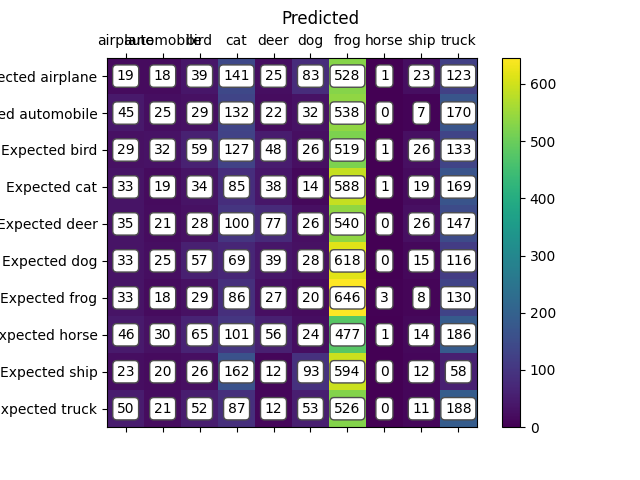
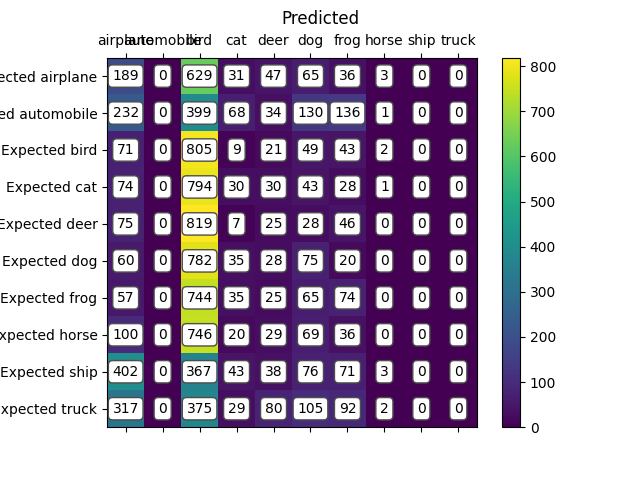
Use large windows for haar features

diff --git a/Assignment 4/Code/AdaBoost.py b/Assignment 4/Code/AdaBoost.py
@@ -18,6 +18,9 @@ def get_haar_indices(width, height) -> (np.ndarray, np.ndarray, np.ndarray):
     two_piece = []
     three_piece = []
     four_piece = []
+    two_piece_large_window = []
+    three_piece_large_window = []
+    four_piece_large_window = []
     if os.path.isfile(f"{CACHE_DIR}/haar_indices.npy"):
         with open(f"{CACHE_DIR}/haar_indices.npy", 'rb') as f:
             two_piece = np.load(f)
@@ -33,26 +36,52 @@ def get_haar_indices(width, height) -> (np.ndarray, np.ndarray, np.ndarray):
                             # Horizontal-2
                             two_piece.append(
                                 (y, x, y + h - 1, x + w - 1, y, x + w, y + h - 1, x + 2 * w - 1))
+
+                            if w > 8 and h > 8:
+                                two_piece_large_window.append(
+                                    (y, x, y + h - 1, x + w - 1, y, x + w, y + h - 1,
+                                     x + 2 * w - 1))
                         if y + h - 1 < height and x + 3 * w - 1 < width:
                             # Horizontal-3
                             three_piece.append(
                                 (y, x, y + h - 1, x + w - 1, y, x + w, y + h - 1, x + 2 * w - 1,
                                  y, x + 2 * w, y + h - 1, x + 3 * w - 1))
+
+                            if w > 6 and h > 6:
+                                three_piece_large_window.append(
+                                    (y, x, y + h - 1, x + w - 1, y, x + w, y + h - 1, x + 2 * w - 1,
+                                     y, x + 2 * w, y + h - 1, x + 3 * w - 1))
                         if y + 2 * h - 1 < height and x + w - 1 < width:
                             # Vertical-2
                             two_piece.append(
                                 (y, x, y + h - 1, x + w - 1, y + h, x, y + 2 * h - 1, x + w - 1))
+
+                            if w > 8 and h > 8:
+                                two_piece_large_window.append(
+                                    (y, x, y + h - 1, x + w - 1, y + h, x, y + 2 * h - 1,
+                                     x + w - 1))
                         if y + 3 * h - 1 < height and x + w - 1 < width:
                             # Vertical-3
                             three_piece.append(
                                 (y, x, y + h - 1, x + w - 1, y + h, x, y + 2 * h - 1, x + w - 1,
                                  y + 2 * h, x, y + 3 * h - 1, x + w - 1))
+
+                            if w > 6 and h > 6:
+                                three_piece_large_window.append(
+                                    (y, x, y + h - 1, x + w - 1, y + h, x, y + 2 * h - 1, x + w - 1,
+                                     y + 2 * h, x, y + 3 * h - 1, x + w - 1))
                         if y + 2 * h - 1 < height and x + 2 * w - 1 < width:
                             # Diagonal-4
                             four_piece.append(
                                 (y, x, y + h - 1, x + w - 1, y, x + w, y + h - 1, x + 2 * w - 1,
                                  y + h, x, y + 2 * h - 1, x + w - 1, y + h, x + w,
                                  y + 2 * h - 1, x + 2 * w - 1))
+
+                            if w > 8 and h > 8:
+                                four_piece_large_window.append(
+                                    (y, x, y + h - 1, x + w - 1, y, x + w, y + h - 1, x + 2 * w - 1,
+                                     y + h, x, y + 2 * h - 1, x + w - 1, y + h, x + w,
+                                     y + 2 * h - 1, x + 2 * w - 1))
         two_piece = np.array(two_piece)
         three_piece = np.array(three_piece)
         four_piece = np.array(four_piece)
@@ -76,6 +105,14 @@ def get_haar_indices(width, height) -> (np.ndarray, np.ndarray, np.ndarray):
         two_piece = generator.choice(two_piece, size=amount_each[0], replace=False)
         three_piece = generator.choice(three_piece, size=amount_each[1], replace=False)
         four_piece = generator.choice(four_piece, size=amount_each[2], replace=False)
+
+        # Use only large window features
+        two_piece_large_window = np.array(two_piece_large_window)
+        three_piece_large_window = np.array(three_piece_large_window)
+        four_piece_large_window = np.array(four_piece_large_window)
+        two_piece = generator.choice(two_piece_large_window, size=amount_each[0], replace=False)
+        three_piece = generator.choice(three_piece_large_window, size=amount_each[1], replace=False)
+        four_piece = generator.choice(four_piece_large_window, size=amount_each[2], replace=False)
         with open(f"{CACHE_DIR}/haar_indices_subset.npy", 'wb') as f:
             np.save(f, two_piece)
             np.save(f, three_piece)
@@ -101,7 +138,8 @@ def get_integral_images(imgs: np.ndarray) -> np.ndarray:
 
 def rgb2gray(rgb: np.ndarray) -> np.ndarray:
     """
-    Under the assumption that the images are RGB and of the form [r:[0:1024), g:[1024:2048), b:[2048:3072)]
+    Under the assumption that the images are RGB and of the form [r:[0:1024), g:[1024:2048),
+    b:[2048:3072)]
     Converts them to grayscale
     """
     r, g, b = rgb[:, :1024], rgb[:, 1024:2048], rgb[:, 2048:]
@@ -133,7 +171,9 @@ def compute_haar_features(imgs: np.ndarray, testing: bool = False) -> np.ndarray
         haar_features = np.zeros((len(integral_imgs), FEATURE_SUBSET), dtype=np.float64)
         feature = None
         img_index, haar_index = 0, 0
-        for ii in tqdm(integral_imgs, desc=f"Computing Haar Features of {"Testing" if testing else "Training"} set"):
+        for ii in tqdm(integral_imgs,
+                       desc=f"Computing Haar Features of {"Testing" if testing else "Training"} "
+                            f"set"):
             haar_index = 0
             for coord_type in haar_indices:
                 for coord_set in coord_type:
@@ -173,7 +213,8 @@ def compute_haar_features(imgs: np.ndarray, testing: bool = False) -> np.ndarray
 
 def area(img, y1, x1, y2, x2):
     """
-    Returns the area of a rectangle with the given coordinates of the top left: (y1, x1) and bottom right: (y2, x2)
+    Returns the area of a rectangle with the given coordinates of the top left: (y1,
+    x1) and bottom right: (y2, x2)
     :param img:
     :param y1:
     :param x1:
@@ -199,8 +240,10 @@ class WeakClassifier:
         self.alpha = alpha
 
     def __str__(self):
-        return (f"Parity: {self.parity}, Feature Index: {self.feature_index}, Threshold: {self.threshold}, "
-                f"Error: {self.error}, Alpha: {self.alpha}")
+        return (
+            f"Parity: {self.parity}, Feature Index: {self.feature_index}, Threshold: "
+            f"{self.threshold}, "
+            f"Error: {self.error}, Alpha: {self.alpha}")
 
 
 def train_weak_classifier(weak_classifier: WeakClassifier, feature_per_image: np.ndarray, f_index,
@@ -219,7 +262,7 @@ def train_weak_classifier(weak_classifier: WeakClassifier, feature_per_image: np
     translation = np.min(all_thresholds)
     scale = np.max(all_thresholds - translation)
 
-    scale_factor = 10
+    scale_factor = 50
     for i in range(scale_factor):
         # Find the best threshold
         parity = 1
@@ -227,6 +270,9 @@ def train_weak_classifier(weak_classifier: WeakClassifier, feature_per_image: np
         predictions = np.zeros(len(binary_training_labels))
         predictions[feature_per_image >= threshold] = 1
         error = np.sum(weights[binary_training_labels != predictions])
+        if error < 0 or error > 1:
+            print(f"Error is {error} for feature: {f_index}")
+            error = round(error)
         if error > 0.5:
             error = 1 - error
             parity = -1
@@ -235,10 +281,12 @@ def train_weak_classifier(weak_classifier: WeakClassifier, feature_per_image: np
             weak_classifier.feature_index = f_index
             weak_classifier.threshold = threshold
             weak_classifier.error = error
+        assert 0 <= error <= 0.5, f"Error is {error}"
     return weak_classifier
 
 
-def train_binary_classifier(haar_features: np.ndarray, binary_training_labels: np.ndarray, T: np.uint16,
+def train_binary_classifier(haar_features: np.ndarray, binary_training_labels: np.ndarray,
+                            T: np.uint16,
                             queue: mp.Queue = None, index: int = None) -> np.ndarray:
     """
     Trains a binary classifier
@@ -252,8 +300,12 @@ def train_binary_classifier(haar_features: np.ndarray, binary_training_labels: n
     l = np.count_nonzero(binary_training_labels)
     m = len(binary_training_labels) - l
 
-    weights = np.array([1 / (2 * l) if label == 1 else 1 / (2 * m) for label in binary_training_labels])
+    weights = np.array(
+        [1 / (2 * l) if label == 1 else 1 / (2 * m) for label in binary_training_labels])
     strong_classifier = []
+
+    # Remove features that are all 0
+    zero_indices = np.where(np.all(np.isclose(haar_features, 0), axis=0))[0]
 
     for _ in tqdm(range(T), desc=f"Training Binary Classifier: {index}"):
         # Normalize the weights
@@ -261,19 +313,22 @@ def train_binary_classifier(haar_features: np.ndarray, binary_training_labels: n
 
         weak_classifier = WeakClassifier()
         for feature_index in range(haar_features.shape[1]):
+            if feature_index in zero_indices:
+                continue
+
             single_feature = haar_features[:, feature_index]
 
             train_weak_classifier(weak_classifier, single_feature, feature_index,
                                   binary_training_labels, weights)
         beta = weak_classifier.error / (1 - weak_classifier.error)
         # weak_classifier.alpha = np.log((1 / beta))
+        assert 0 <= beta <= 1, f"Beta is {beta} for feature: {weak_classifier.feature_index}"
         weak_classifier.alpha = -np.log(beta)
 
         strong_classifier.append(weak_classifier)
         predictions = np.zeros(len(binary_training_labels), dtype=np.uint8)
-        predictions[weak_classifier.parity * haar_features[:, weak_classifier.feature_index] >=
+        predictions[weak_classifier.parity * haar_features[:, weak_classifier.feature_index] <
                     weak_classifier.parity * weak_classifier.threshold] = 1
-        print(weak_classifier.error)
 
         for i in range(len(weights)):
             if predictions[i] == binary_training_labels[i]:
@@ -285,8 +340,9 @@ def train_binary_classifier(haar_features: np.ndarray, binary_training_labels: n
     return strong_classifier
 
 
-def train(training_data: np.ndarray, training_labels: np.ndarray, labels: np.ndarray, number_of_weak_classifiers: int =
-10):
+def train(training_data: np.ndarray, training_labels: np.ndarray, labels: np.ndarray,
+          number_of_weak_classifiers: int =
+          10):
     """
     Trains the AdaBoost classifier
     :param training_data:
@@ -302,12 +358,9 @@ def train(training_data: np.ndarray, training_labels: np.ndarray, labels: np.nda
             return all_strong_classifiers
     else:
         T = np.uint16(number_of_weak_classifiers)
-        assert T < FEATURE_SUBSET, f"T must be less than the feature subset size of {FEATURE_SUBSET}"
+        assert T < FEATURE_SUBSET, (f"T must be less than the feature subset size of "
+                                    f"{FEATURE_SUBSET}")
         haar_features = compute_haar_features(training_data)
-
-        # Remove features that are all 0
-        zero_indices = np.where(np.all(np.isclose(haar_features, 0), axis=0))
-        haar_features = np.delete(haar_features, zero_indices, axis=1)
 
         # Rows of classifiers are strong classifiers
         all_strong_classifiers = np.ndarray((len(labels), T), dtype=WeakClassifier)
@@ -317,8 +370,9 @@ def train(training_data: np.ndarray, training_labels: np.ndarray, labels: np.nda
         for index, l in enumerate(labels):
             print(f"\nTraining {l}")
             binary_training_labels = np.where(training_labels == index, 1, 0)
-            processes.append(mp.Process(target=train_binary_classifier, args=(haar_features, binary_training_labels,
-                                                                              T, queue, index)))
+            processes.append(mp.Process(target=train_binary_classifier,
+                                        args=(haar_features, binary_training_labels,
+                                              T, queue, index)))
             # strong_classifier = train_binary_classifier(haar_features, binary_training_labels, T)
             # all_strong_classifiers[index, :] = strong_classifier
 
@@ -375,13 +429,15 @@ def test(testing_data: np.ndarray, testing_labels: np.ndarray):
     haar_features = compute_haar_features(testing_data, testing=True)
     predictions = np.zeros(len(testing_labels), dtype=np.uint8)
     for img in range(testing_data.shape[0]):
-        predictions[img] = classify_image(haar_features[img, :], all_classifiers, testing_labels[img])
+        predictions[img] = classify_image(haar_features[img, :], all_classifiers,
+                                          testing_labels[img])
     accuracy = np.sum(predictions == testing_labels) / len(testing_labels)
     print(f"Accuracy: {accuracy}")
     return accuracy, predictions, testing_labels
 
 
-def train_and_test(t, training_data: np.ndarray, training_labels: np.ndarray, testing_data: np.ndarray,
+def train_and_test(t, training_data: np.ndarray, training_labels: np.ndarray,
+                   testing_data: np.ndarray,
                    testing_labels: np.ndarray, label_names: np.ndarray):
     global TRAINED
     TRAINED = False

diff --git a/Assignment 4/Assignment 4 Writeup.tex b/Assignment 4/Assignment 4 Writeup.tex
@@ -92,9 +92,9 @@
         over L2 norm, and the following 2 figures are tested with 1000 samples with no dimensional reduction.\newline
         \includegraphics[width=\textwidth]{Output Pictures/Nearest Neighbors L1}
         \includegraphics[width=\textwidth]{Output Pictures/Nearest Neighbors L2}
-        For Adaptive Boosting classifier, the accuracy is about 11\%. This is because it's very biased towards the
-        third label, the cat. The training time is very long, but the testing time is very fast.
-        % TODO: Fix Adaboost accuracy
+        For Adaptive Boosting classifier, the accuracy is about 12\%. This is because it's very
+        biased towards the third label, the cat. The training time is very long, but optimizaed
+        with multi-processing on multiple cores, but the testing time is very fast.
         K Nearest Neighbors has no training time, but since comparisons to the entire training set must be made for
         each test image, it has a very long testing time. This can be improved through PCA, where only
         certain components are considered for the nearest neighbor calculation. Adaboosting
@@ -113,8 +113,8 @@
         \item \textbf{Cross-validation \Romannum{2}.} Perform 5-fold cross-validation for the AdaBoosting classifier.
         Report the optimal value for the number of weak classifiers.\newline
         The optimal number of weak classifiers for my Adaboosting implementation was 100. I performed 5-fold cross
-        -validation on the data set, and averaged about 11.2\% accuracy. The confusion matrix is shown below.\newline
+        -validation on the data set, and averaged about 12\% accuracy. The confusion matrix is
+        shown below.\newline
         \includegraphics[width=\textwidth]{Output Pictures/Confusion Matrix AdaBoost}
-        % TODO: Fix Adaboost accuracy
     \end{itemize}
 \end{document}
